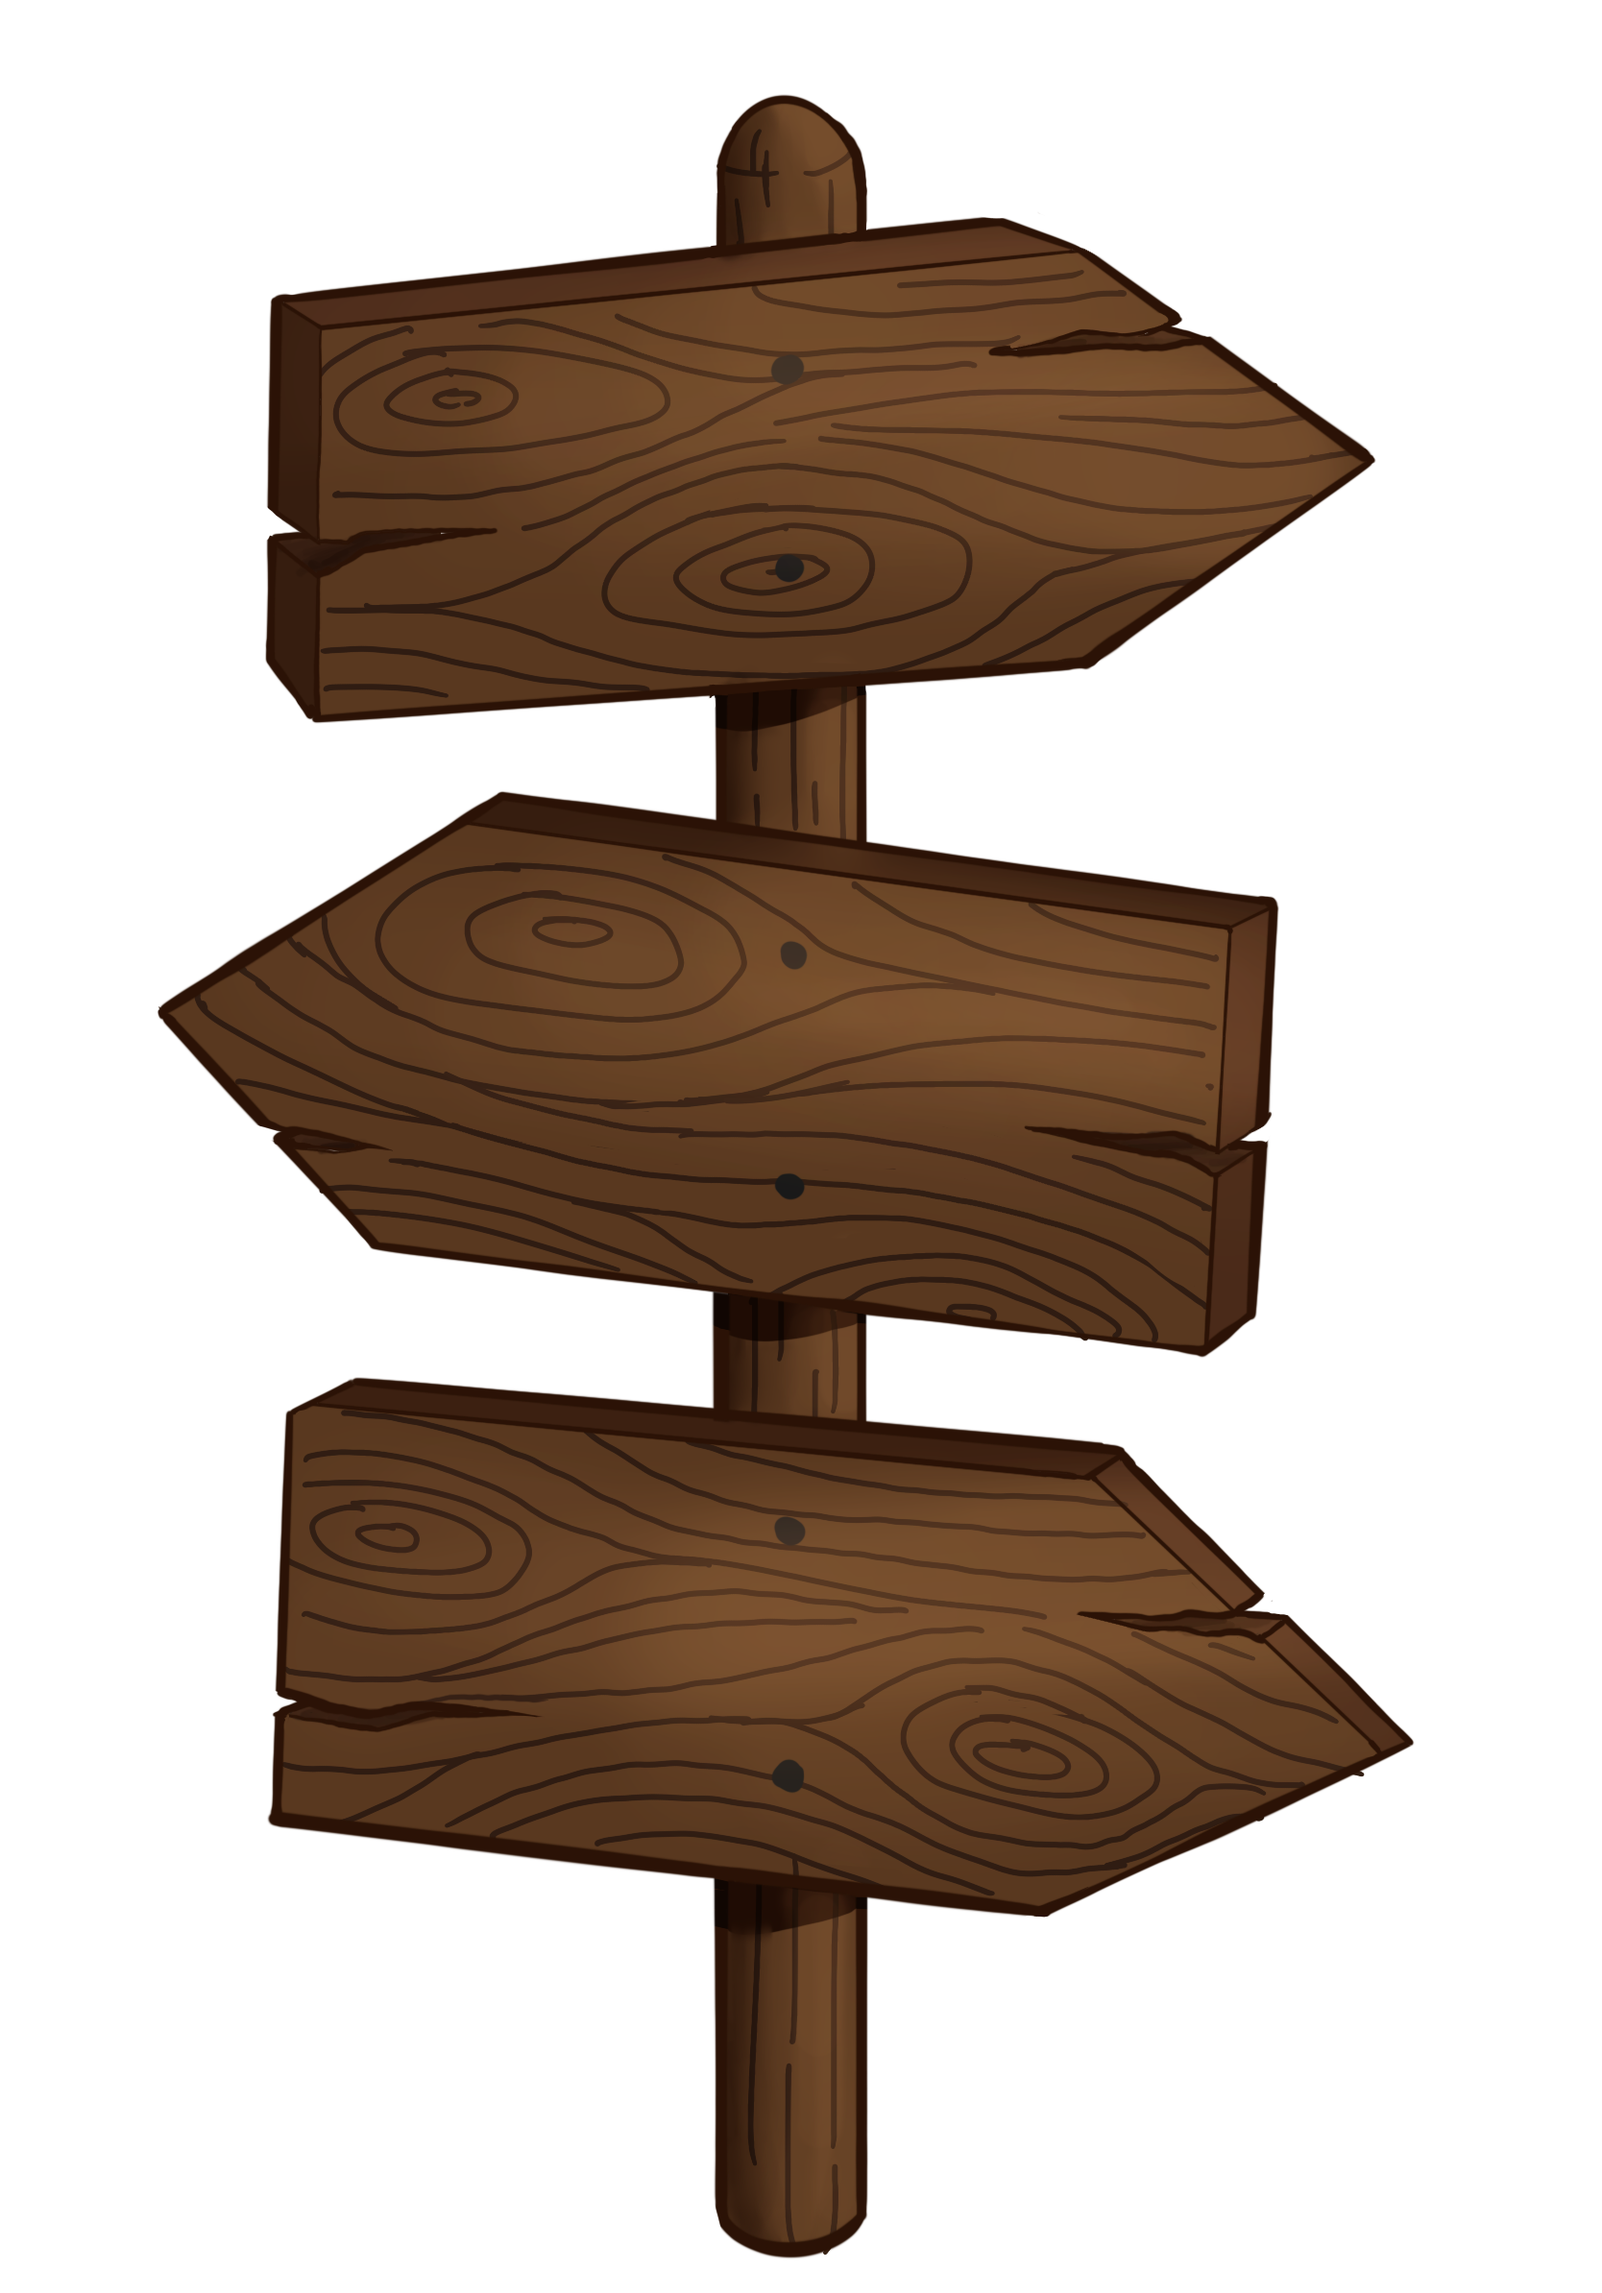
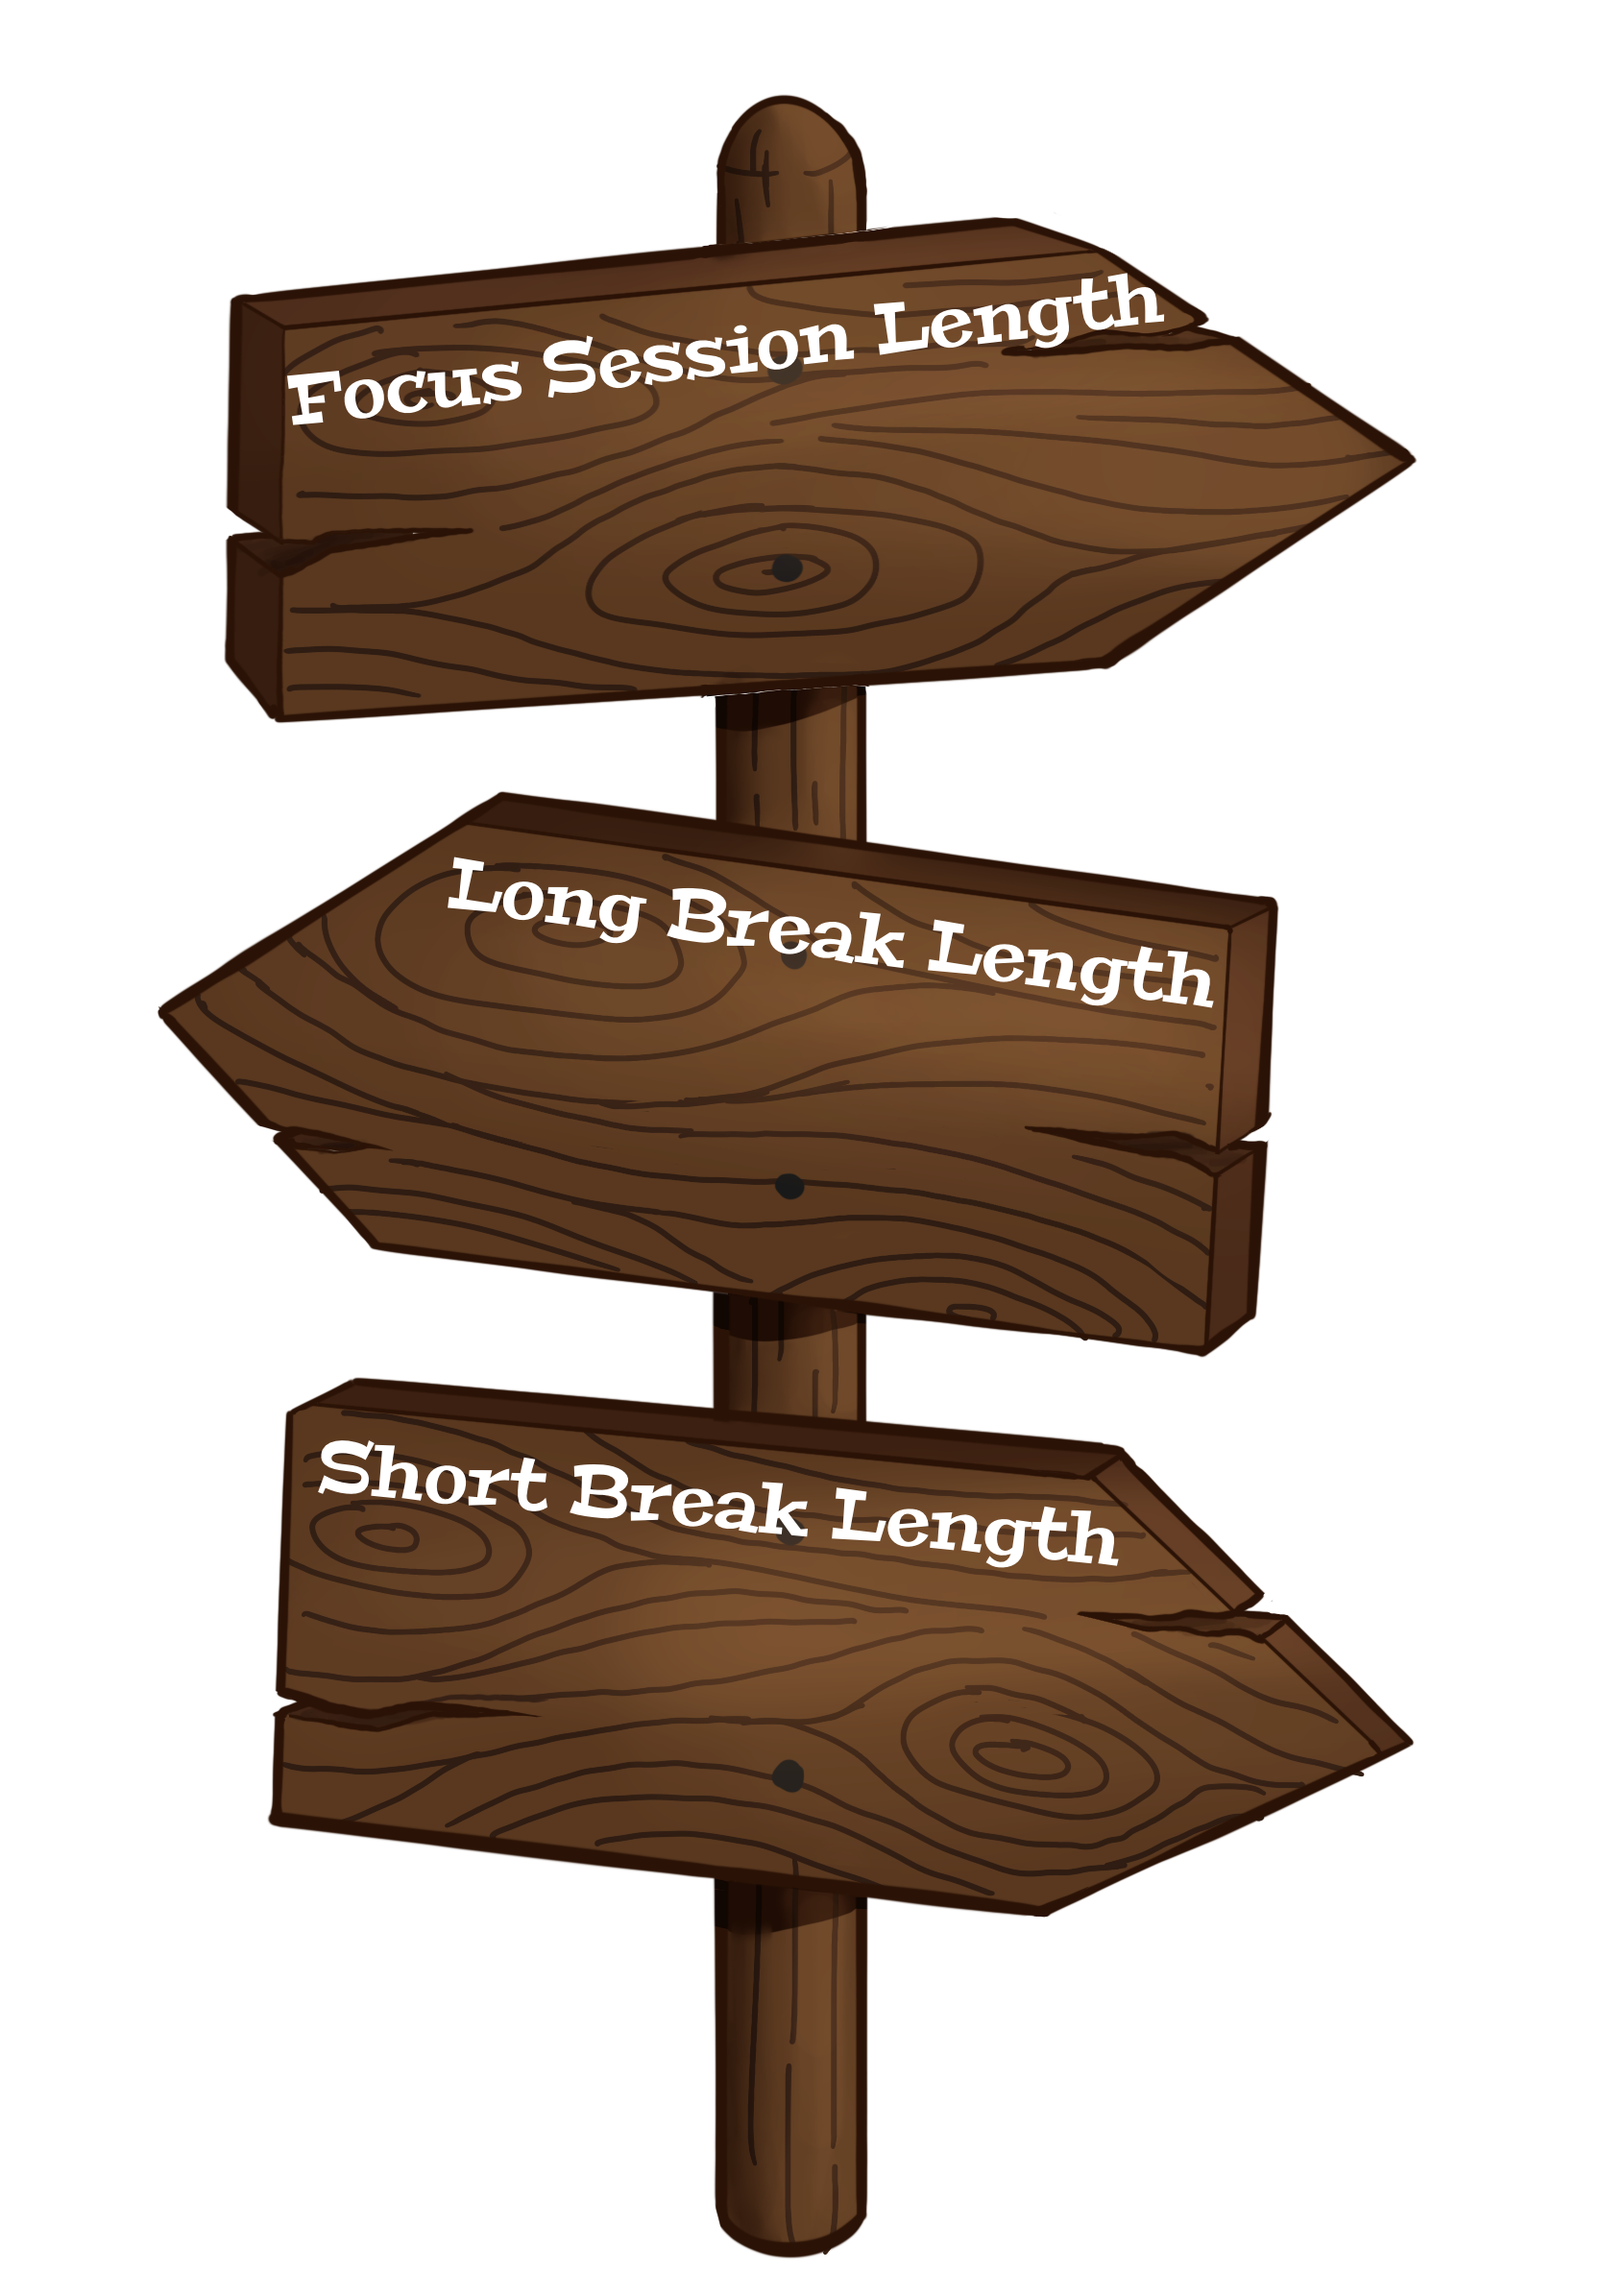
sign labels

Changed region(s): [[0.1247, 0.093, 0.9041, 0.3409], [0.1871, 0.6198, 0.717, 0.6817], [0.2806, 0.3719, 0.7482, 0.4338]]

diff --git a/pomorodeo.css b/pomorodeo.css
@@ -143,43 +143,6 @@ button {
     margin-bottom: 0;
 } 
 
-/*.sign-labels {
-    font-family: "Rye", serif;
-    color: rgb(247, 226, 198);
-    font-size: 35px;
-    text-align: left;
-    margin-top: -830px;
-    margin-left: 145px;
-    margin-right: 0px;
-    padding-right: 0px;
-}
-
-.focus-session {
-    font-family: "Rye", serif;
-    font-size: 35px;
-    background-color: transparent;
-    transform: rotate(-5deg);
-}
-
-.long-break {
-    font-family: "Rye", serif;
-    font-size: 35px;
-    background-color: transparent;
-    transform: rotate(5deg);
-    margin-top: 60px;
-    margin-left: -20px;
-    margin-right: 0px;
-    padding-right: 0px;
-}
-
-.short-break {
-    font-family: "Rye", serif;
-    font-size: 35px;
-    background-color: transparent;
-    transform: rotate(5deg);
-    margin-top: -10px;
-}*/
-
 body{
     background-image: url(blurbackground.png);
     background-repeat: no-repeat;

diff --git a/pomorodeo.html b/pomorodeo.html
@@ -39,12 +39,6 @@
         </div>
     </div>
 
-    <div class="sign-labels">
-        <p class="focus-session">Focus Session Length<br><br><br><br><br><br></p>
-        <p class="long-break">Long Break Length<br><br><br><br><br></p>
-        <p class="short-break">Short Break Length</p>
-    </div>
-
     <div class="control-buttons"> 
         <button onclick="pause()"> 
               Pause 
